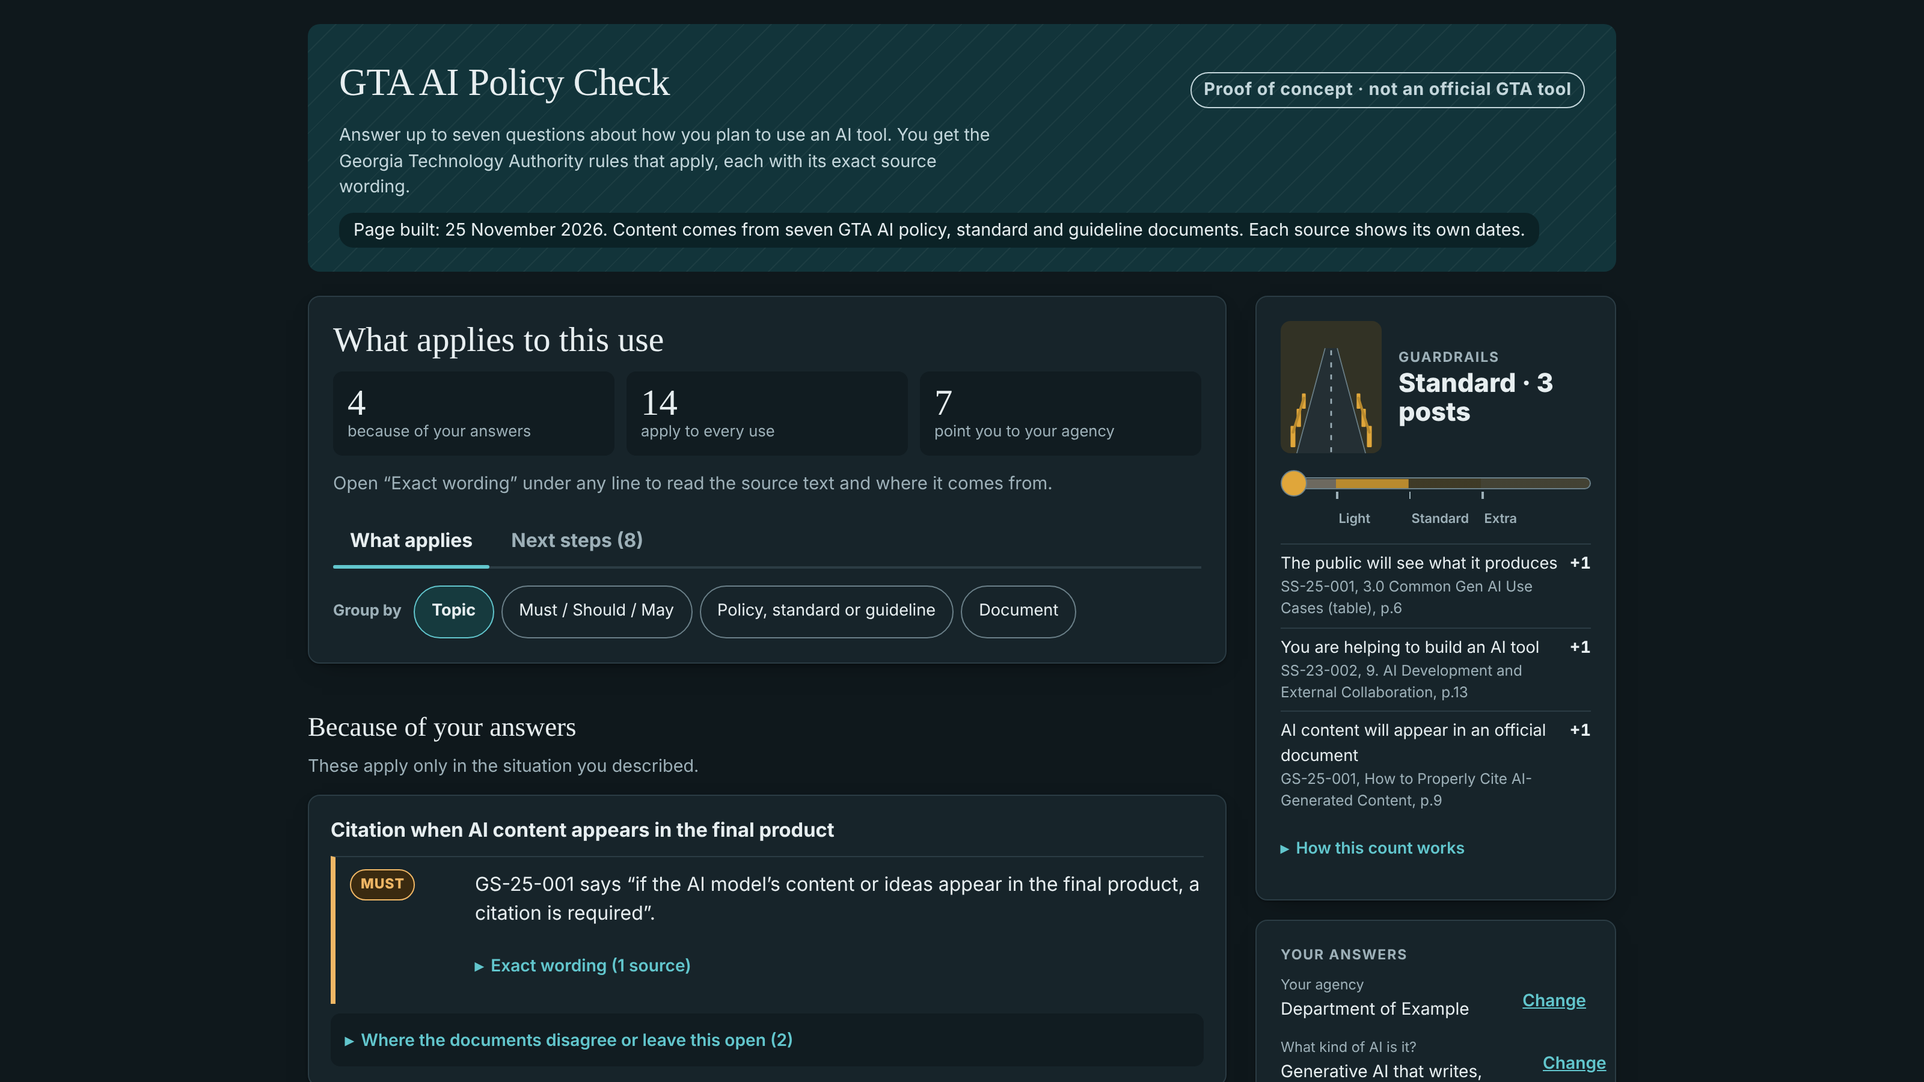
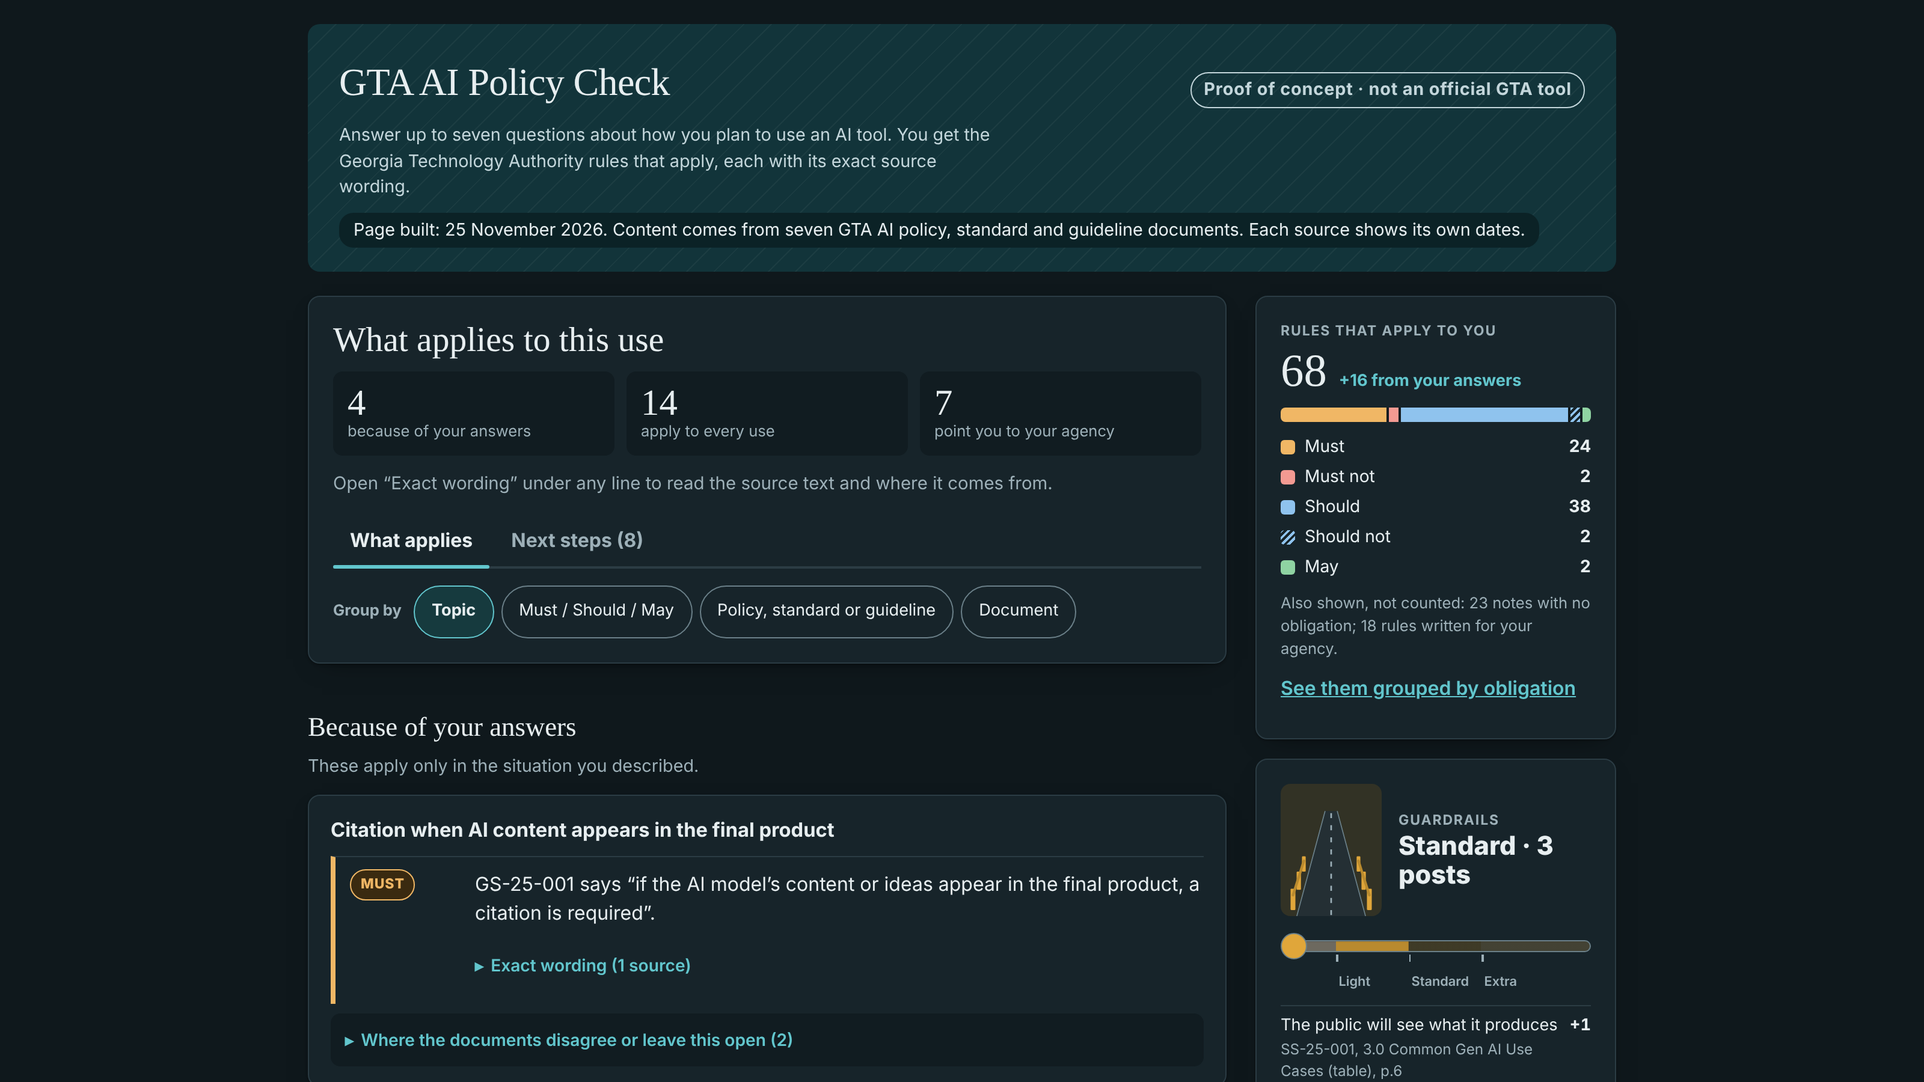
Bring back a live rule count with an obligation breakdown
'Rules that apply to you' heads the side panel: total rules, +N from
your answers, and a Must / Must not / Should / Should not / May bar.
Notes and agency-only rules are listed, not counted. Guardrail posts
stay as the separate risk signal. Adds tests/test_obligations.py.

Claude-Session: https://claude.ai/code/session_01UME3yHyTmeMZN4Qs47Nq3S

Changed region(s): [[0.6562, 0.28, 0.8438, 0.9956]]

diff --git a/site/index.html b/site/index.html
@@ -290,6 +290,26 @@ details.agency .declist{margin-top:12px;box-shadow:none}
 .ferr{margin:0;color:var(--mustnot);font-size:.88rem;font-weight:600}
 .privacy{margin:0 0 16px;color:var(--muted);font-size:.85rem;max-width:65ch}
 .pocpill{display:inline-block;margin:0;padding:3px 10px;border-radius:999px;border:1px solid var(--band-muted);color:var(--band-ink);font-size:.75rem;font-weight:700;letter-spacing:.03em}
+/* rules that apply: count + obligation mix */
+.railh{font-size:.72rem;text-transform:uppercase;letter-spacing:.08em;color:var(--muted);margin:0 0 4px;font-weight:700}
+.oblnum{display:flex;align-items:baseline;gap:10px;flex-wrap:wrap}
+.oblnum b{font:500 2.4rem/1.05 var(--quote);font-variant-numeric:tabular-nums;display:inline-block}
+.oblnum b.bump{animation:oblbump .6s ease}
+@keyframes oblbump{0%{transform:scale(1)}30%{transform:scale(1.18);color:var(--accent)}100%{transform:scale(1)}}
+.obldelta{font-size:.85rem;font-weight:700;color:var(--accent)}
+.oblbar{display:flex;gap:2px;height:12px;margin:10px 0 10px;border-radius:4px;overflow:hidden;background:var(--sunk)}
+.oblbar i{display:block;min-width:3px}
+.oblbar .must,.obllegend .must::before{background:var(--must)}.oblbar .must_not,.obllegend .must_not::before{background:var(--mustnot)}
+.oblbar .should,.obllegend .should::before{background:var(--should)}.oblbar .may,.obllegend .may::before{background:var(--may)}
+.oblbar .should_not,.obllegend .should_not::before{background:repeating-linear-gradient(135deg,var(--should) 0 2px,var(--surface) 2px 4px)}
+.obllegend{list-style:none;margin:0;padding:0;display:grid;grid-template-columns:1fr auto;gap:4px 10px;font-size:.88rem}
+.obllegend li{display:contents}
+.obllegend span{display:flex;align-items:center;gap:8px}
+.obllegend span::before{content:"";width:12px;height:12px;border-radius:3px;flex-shrink:0}
+.obllegend b{font-variant-numeric:tabular-nums;text-align:right}
+.oblnote{margin:10px 0 0;font-size:.8rem;color:var(--muted)}
+.oblgo{min-height:44px;padding:0}
+@media (prefers-reduced-motion:reduce){.oblnum b.bump{animation:none}}
 .rowsrc{margin-top:4px}.rowsrc>summary{font-size:.82rem}.rowsrc cite.chips{margin-top:2px}
 </style>
 </head>
@@ -304,7 +324,15 @@ details.agency .declist{margin-top:12px;box-shadow:none}
   <p id="status" class="sr" role="status" aria-live="polite"></p>
   <div class="grid">
     <main id="main"><div class="card">Loading the policy map…</div></main>
-    <aside class="rail" aria-label="Guardrails and your answers">
+    <aside class="rail" aria-label="Your rules, guardrails and answers">
+      <section class="card obl" aria-labelledby="oblh">
+        <h2 id="oblh" class="railh">Rules that apply to you</h2>
+        <div class="oblnum"><b id="obltotal">0</b><span class="obldelta" id="obldelta"></span></div>
+        <div class="oblbar" id="oblbar" aria-hidden="true"></div>
+        <ul class="obllegend" id="obllegend"></ul>
+        <p class="oblnote" id="oblnote"></p>
+        <button class="link oblgo" id="oblgo" type="button" hidden>See them grouped by obligation</button>
+      </section>
       <section class="card" aria-labelledby="guardh">
         <div class="heat">
           <div class="gbox" id="gbox" aria-hidden="true">
@@ -384,7 +412,27 @@ function answersList(){var a=h("ul",{class:"answers"},[]),any=false;
   applicable().forEach(function(q){if(!(q.fact in facts))return;any=true;
     a.appendChild(h("li",null,[h("span",null,[h("small",{text:q.text}),optLabel(q)]),h("button",{class:"link",type:"button","aria-label":"Change answer: "+q.text,on:{click:function(){editing=q.id;showResults=false;render()}}},["Change"])]))});
   if(!any)a.appendChild(h("li",null,[h("span",null,[h("small",{text:"None yet"})])]));return a}
+var OBL=[["must","Must"],["must_not","Must not"],["should","Should"],["should_not","Should not"],["may","May"]];
+// Rules that apply to the person: provisions in the topics shown to them (always-shown + triggered), by modality.
+// Agency pointers are agency duties, and Notes carry no obligation, so both are reported but not counted.
+function rulesNow(){var c={must:0,must_not:0,should:0,should_not:0,may:0,informational:0},added=0,agency=0;
+  if(!gated()){baseEls().concat(active()).forEach(function(e){sts(e).forEach(function(s){c[s.m]+=s.prov.length;if(e.tier==="conditional"&&s.m!=="informational")added+=s.prov.length})});
+    ptrsNow().forEach(function(p){agency+=(isOther()?p.oprov:p.prov).length})}
+  var total=0;OBL.forEach(function(o){total+=c[o[0]]});return{c:c,total:total,added:added,agency:agency}}
+function renderRules(){var r=rulesNow(),tb=$("obltotal"),prev=renderRules.last;
+  tb.textContent=String(r.total);
+  $("obldelta").textContent=r.added?"+"+r.added+" from your answers":"";
+  if(prev!==undefined&&prev!==r.total){tb.classList.remove("bump");void tb.offsetWidth;tb.classList.add("bump")}
+  renderRules.last=r.total;
+  var bar=$("oblbar"),lg=$("obllegend");bar.textContent="";lg.textContent="";
+  OBL.forEach(function(o){var n=r.c[o[0]];if(!n)return;var seg=h("i",{class:o[0]});seg.style.flexGrow=String(n);bar.appendChild(seg);
+    lg.appendChild(h("li",null,[h("span",{class:o[0],text:o[1]}),h("b",{text:String(n)})]))});
+  var notes=[];if(r.c.informational)notes.push(r.c.informational+" notes with no obligation");if(r.agency)notes.push(r.agency+" rules written for your agency");
+  $("oblnote").textContent=notes.length?"Also shown, not counted: "+notes.join("; ")+".":"";
+  $("oblgo").hidden=!(showResults&&started&&r.total);
+  return r}
 function renderRail(){
+  var rr=renderRules();
   var fs=factorsNow(),total=0;fs.forEach(function(x){total+=x.f.posts});
   var lv=levelOf(total),sg=signsNow(),mode=sg.some(function(x){return x.s.level==="stop"})?"stop":sg.length?"check":"";
   if(!GPOSTS.length)buildGuard();
@@ -397,7 +445,7 @@ function renderRail(){
   var lvl=$("level");lvl.textContent=head||said;lvl.className="level"+(mode?" "+mode:"");
   var sw=$("stopwhy");sw.textContent="";sw.hidden=!mode;sw.className="stopwhy"+(mode==="check"?" check":"");
   sg.forEach(function(x){sw.appendChild(h("li",null,[x.s.title,h("small",{text:cite(x.s.prov)+(x.ns?" · you answered Not sure":"")})]))});
-  var news=(head?head+": "+sg.map(function(x){return x.s.title}).join("; ")+". ":"")+"Guardrails now "+said+".";
+  var news=(head?head+": "+sg.map(function(x){return x.s.title}).join("; ")+". ":"")+rr.total+" rules apply to you ("+rr.c.must+" must, "+rr.c.must_not+" must not). Guardrails now "+said+".";
   if(renderRail.last!==undefined&&renderRail.last!==news)$("status").textContent=news;renderRail.last=news;
   var th=$("thermo");th.style.setProperty("--t",(Math.min(1,total/PMAX)*100).toFixed(1)+"%");th.setAttribute("aria-valuenow",String(Math.min(total,PMAX)));th.setAttribute("aria-valuetext",LV[lv]+" guardrails, "+total+(total===1?" post":" posts"));
   var d=$("drivers");d.textContent="";
@@ -648,6 +696,7 @@ function render(){
 }
 var opened=[];window.addEventListener("beforeprint",function(){opened=[];document.querySelectorAll("details:not([open])").forEach(function(d){d.open=true;opened.push(d)})});
 window.addEventListener("afterprint",function(){opened.forEach(function(d){d.open=false});opened=[]});
+$("oblgo").addEventListener("click",function(){view="mod";tab="applies";renderResults();var v=document.querySelector(".views");if(v){v.scrollIntoView({block:"start"});var b=v.querySelector('[aria-pressed="true"]');if(b)b.focus({preventScroll:true})}renderRail()});
 $("restart").addEventListener("click",function(){facts={};editing=null;showResults=false;started=false;render()});
 fetch("data.json").then(function(r){if(!r.ok)throw new Error(r.status);return r.json()}).then(function(recs){
   recs.forEach(function(r){if(r.k==="q")Q.push(r);else if(r.k==="el")EL.push(r);else if(r.k==="ptr")PT.push(r);else if(r.k==="meta"){META=r;if(r.updated){var u=$("updated");u.textContent="";var pl=h("span",{class:"updpill"},["Page built: ",h("time",{datetime:r.updated.iso,text:r.updated.text}),(r.updated.basis?". "+r.updated.basis+".":"")]);u.appendChild(pl)}}else if(r.k==="step")STEPS.push(r);else if(r.k==="dec")DEC.push(r);else if(r.k==="stepgap")STEPGAP=r;else if(r.k==="factor")FACTORS.push(r);else if(r.k==="sign")SIGNS.push(r)});

diff --git a/tests/test_obligations.py b/tests/test_obligations.py
@@ -1,0 +1,85 @@
+"""'Rules that apply to you': the count and its obligation breakdown must match the data after every
+answer, rise when an answer adds rules, and leave out Notes and agency-only rules. Needs the site
+served on localhost:8765.
+"""
+import asyncio, json, os, sys
+from playwright.async_api import async_playwright
+
+ROOT = os.path.normpath(os.path.join(os.path.dirname(os.path.abspath(__file__)), ".."))
+D = json.load(open(os.path.join(ROOT, "site", "data.json"), encoding="utf-8"))
+META = [r for r in D if r["k"] == "meta"][0]
+Q = [r for r in D if r["k"] == "q"]
+EL = [r for r in D if r["k"] == "el"]
+OBL = ["must", "must_not", "should", "should_not", "may"]
+NAME = {"must": "Must", "must_not": "Must not", "should": "Should", "should_not": "Should not", "may": "May"}
+
+
+def has(l, v): return any(x in l for x in v) if isinstance(v, list) else v in l
+def match(c, f): return c == "always" or any(all(k in f and has(a[k], f[k]) for k in a) for a in c)
+
+
+def expected(f):
+    """Independent count: provisions in always-shown topics plus topics the answers trigger, by modality."""
+    c = {m: 0 for m in OBL + ["informational"]}
+    if match(META["gate"]["when"], f): return c, 0
+    oth = match(META["when_other"], f)
+    added = 0
+    for e in EL:
+        if e["tier"] != "umbrella" and not match(e["when"], f): continue
+        for s in (e["other"] if oth else e["statements"]):
+            c[s["m"]] += len(s["prov"])
+            if e["tier"] == "conditional" and s["m"] != "informational": added += len(s["prov"])
+    return c, added
+
+
+G = "Generative AI that writes"
+ROUTES = [
+    ("coding, nothing sensitive", [("F_TYPE", "generative", G), ("F_TASK", ["coding"], ["Writing, reviewing"]), ("F_PRODUCT", "none", "No, it only helped"),
+                                   ("F_ROLE", "use_only", "No, I only use"), ("F_DATA", "no", "No, only publicly"), ("F_DECISION", "no", "No")]),
+    ("public writing with personal data", [("F_TYPE", "generative", G), ("F_TASK", ["public_comms"], ["Writing for the public"]), ("F_PRODUCT", "official", "Yes, in something more official"),
+                                           ("F_ROLE", "build", "Yes, building"), ("F_DATA", "yes", "Yes"), ("F_DECISION", "yes", "Yes")]),
+    ("other AI, buying", [("F_TYPE", "other", "Other AI that predicts"), ("F_ROLE", "procure", "Yes, buying"), ("F_DATA", "yes", "Yes")]),
+    ("no AI", [("F_TYPE", "none", "It does not use AI")]),
+]
+
+
+async def main():
+    ok = True
+    async with async_playwright() as p:
+        b = await p.chromium.launch(executable_path=os.environ.get("CHROME_PATH", "/usr/bin/google-chrome"), args=["--no-sandbox"])
+        for name, steps in ROUTES:
+            pg = await b.new_page(); errs = []
+            pg.on("pageerror", lambda e: errs.append(str(e)))
+            await pg.goto("http://localhost:8765/index.html"); await pg.fill("#agency", "Test agency"); await pg.click("#start"); await pg.wait_for_selector(".opt")
+            facts, trail, bad, totals = {}, [], [], []
+            for fact, value, click in steps:
+                if isinstance(click, list):
+                    for t in click: await pg.locator(".opts.multi .opt", has_text=t).first.click()
+                    await pg.get_by_role("button", name="Continue", exact=True).click()
+                else:
+                    await pg.locator(".opt", has_text=click).first.click()
+                await pg.wait_for_timeout(80)
+                facts[fact] = value
+                c, added = expected(facts)
+                total = sum(c[m] for m in OBL)
+                got = int(await pg.inner_text("#obltotal"))
+                legend = dict(zip([t.strip() for t in await pg.locator("#obllegend span").all_inner_texts()],
+                                  [int(t) for t in await pg.locator("#obllegend b").all_inner_texts()]))
+                want_legend = {NAME[m]: c[m] for m in OBL if c[m]}
+                delta = await pg.inner_text("#obldelta")
+                want_delta = f"+{added} from your answers" if added else ""
+                if got != total or legend != want_legend or delta != want_delta:
+                    bad.append(dict(after=fact, got=(got, legend, delta), want=(total, want_legend, want_delta)))
+                totals.append(got)
+            status = await pg.inner_text("#status")
+            note = await pg.inner_text("#oblnote")
+            moved = len(set(totals)) > 1 or name == "no AI"
+            good = not bad and moved and not errs and ("rules apply to you" in status)
+            ok &= good
+            print(f"{name}: totals {' → '.join(map(str, totals))} | note: {note!r} | {'PASS' if good else 'FAIL'} {bad[:2]} {errs}")
+            await pg.close()
+        await b.close()
+    print("ALL PASS" if ok else "FAILED")
+    sys.exit(0 if ok else 1)
+
+asyncio.run(main())

diff --git a/README.md b/README.md
@@ -44,6 +44,7 @@ More diagrams: [what the data contains](docs/images/11-data-at-a-glance.png), [a
   - decisions with no step card, as one-line rows;
   - items written for agencies, in one closed "For your agency" panel.
 - **Review details switch:** at the bottom of Next steps (or open the page with `#review`). It restores the full view for policy staff: the modal verb as written, analyst notes, unresolved references and the panels on where the documents disagree.
+- **Rules that apply to you:** a live count, at the top of the side panel, of every rule that applies to what you described. It rises with each answer that adds one, and shows "+N from your answers". A bar and legend split it into Must, Must not, Should, Should not and May. Notes with no obligation, and rules written for your agency, are listed but not counted. On the results page, a link opens them grouped by obligation.
 - **Guardrails:** a road picture whose guardrail posts rise with what you described, not with how many rules apply. Each of these adds posts once: personal or sensitive information 2, a decision about a person 2, something the public sees or interacts with 1, buying or building an AI tool 1, AI content in an official document 1, legal analysis or AI note-taking in meetings 1. A Not sure answer counts as yes. Levels: Baseline rules only (0), Light (1-2), Standard (3-4), Extra (5 or more). The panel lists each reason with the provision it rests on. The values are this tool's, not GTA's.
 - **Stop and Check first signs:** replace the guardrails, with the source wording at the top of the results. A red stop sign shows when the documents require GTA approval for what you described with generative AI (personal or regulated data, SS-25-001 1.3; buying a GenAI product or service, SS-25-001 1.5) or may prohibit it (decisions about people, SS-25-001 3.0 table; GS-25-001 disagrees, OQ13). An amber Check first sign shows when a review or authorization is required first for other AI (buying, PS-23-001; personal or sensitive data, SS-23-002 6). A Not sure answer to those questions also shows them.
 - **Explanations on request:** each question's help text, the note on how the count works and the longer result notes are collapsed under links such as "About this question".
@@ -147,6 +148,7 @@ The other test scripts work the same way. Each exits with status 1 if any check 
 - `tests/test_employee.py`: 7 routes. Checks the employee view of Next steps, and that review-only items stay hidden.
 - `tests/test_score.py`: checks the guardrail rules in the data against an independent calculation over 53,656 answer routes, and that every quoted provision is shown on that route. Then clicks 11 routes in the page, and ends with `ALL PASS`.
 - `tests/test_intro.py`: the title screen. Checks validation and focus, saving and "Forget my details", Start over, blocked browser storage, and that no request leaves the page's origin.
+- `tests/test_obligations.py`: recalculates the "Rules that apply to you" count and breakdown from the data after every answer on 4 routes, and checks it moves.
 - `tests/test_steps.py`: 3 routes.
 - `tests/test_v2.py`: 5 routes.
 - `tests/test_views.py`: 6 checks.
@@ -212,6 +214,7 @@ GTA-PSG-Nav/
     ├── test_employee.py
     ├── test_intro.py
     ├── test_multi.py
+    ├── test_obligations.py
     ├── test_score.py
     ├── test_steps.py
     ├── test_v2.py

diff --git a/CLAUDE.md b/CLAUDE.md
@@ -43,7 +43,7 @@ Data flows one way through numbered stages; each script reads the previous stage
 4. `scripts/decision_rights.py` → `decision_rights.json`/`.md`: who decides what (DR-##), hand-written; every role is asserted to be a verbatim substring of its provision.
 5. `scripts/gen_site.py` → `site/data.json`: flattens everything into records keyed by `k` (`meta`, `q`, `el`, `ptr`, `step`, `dec`, `stepgap`). Next-step cards (`STEPS`) and step→decision links (`STEPDEC`) are hard-coded here, and their quotes and links are asserted against the source text.
 
-`site/index.html` is one file of dense, inline vanilla JS and CSS. It opens on a title screen (`renderIntro()`: agency required, email optional, kept in `localStorage` only, every access in try/catch); browser tests must fill `#agency` and click `#start` first. It loads `data.json`, re-implements `match()`/`ask_if` from the tree, and renders the question flow, results (four grouping views), the Next steps tab and the review mode (`#review`). Guardrail factors and the red stop / amber Check first signs are defined in `gen_site.py` (`FACTORS`, `SIGNS`) and rendered by `factorsNow()`/`signsNow()`/`renderRail()`; level cut-offs (`levelOf()`, `PMAX`) are in the page. `tests/test_score.py` holds an independent `expected()` calculation of the approved design, so change it together with them. CSS is in layered override blocks (`/* 1 header band */` … `/* 8 polish */`) that redefine earlier rules; check later blocks before editing an earlier one.
+`site/index.html` is one file of dense, inline vanilla JS and CSS. It opens on a title screen (`renderIntro()`: agency required, email optional, kept in `localStorage` only, every access in try/catch); browser tests must fill `#agency` and click `#start` first. It loads `data.json`, re-implements `match()`/`ask_if` from the tree, and renders the question flow, results (four grouping views), the Next steps tab and the review mode (`#review`). The side panel opens with "Rules that apply to you" (`rulesNow()`/`renderRules()`): provisions in shown topics by modality, excluding Notes and agency pointers; `tests/test_obligations.py` checks it. Guardrail factors and the red stop / amber Check first signs are defined in `gen_site.py` (`FACTORS`, `SIGNS`) and rendered by `factorsNow()`/`signsNow()`/`renderRail()`; level cut-offs (`levelOf()`, `PMAX`) are in the page. `tests/test_score.py` holds an independent `expected()` calculation of the approved design, so change it together with them. CSS is in layered override blocks (`/* 1 header band */` … `/* 8 polish */`) that redefine earlier rules; check later blocks before editing an earlier one.
 
 ## Content rules (from CONTRIBUTING.md)
 

diff --git a/completed_tasks.md b/completed_tasks.md
@@ -72,3 +72,11 @@ Decisions: details kept in the browser only; agency required, email optional; pr
 - [x] Diagrams 10–15 (data pipeline, data at a glance, JSON anatomy, tech stack, current and planned architecture), generated from the data by docs/diagrams/; README Architecture and data section
 - [x] 16-tech-stack-simple.png: plain-language, logo version for non-expert audiences (Simple Icons, CC0; trademark notice in docs/diagrams/icons/NOTICE.md)
 - [x] Diagrams 10–16 reworked to show the proposed Georgia build (State's Microsoft Azure, GTA approval, Power BI insights), all marked PROPOSED; GitHub removed from the simplified stack; 14 renamed 14-architecture-georgia.png
+
+## 2026-11-26: Live count restored as "Rules that apply to you"
+Diagnosis: the live site worked as built, but Phase 1 replaced the rule count with risk-based posts that move only for six factors, so on many routes the panel sat at "0 posts" and felt broken.
+- [x] New first card in the side panel: total rules that apply (must, must not, should, should not, may), "+N from your answers", a pulse when it changes (off with reduced motion), a segmented bar and legend by obligation, and a note of Notes and agency rules not counted
+- [x] On results, a link opens the rules grouped by obligation; the live region announces the new total
+- [x] Guardrail posts and stop / Check first signs unchanged
+- [x] `tests/test_obligations.py` (added to CI): count and breakdown match the data after every answer on 4 routes; all 9 suites and the accessibility audit pass
+- [x] Page screenshots 00–09 regenerated
